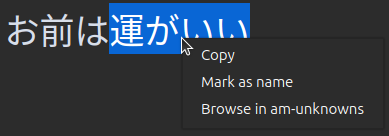
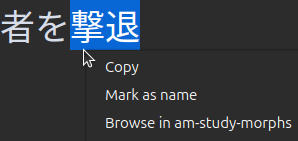
polished guide

Changed region(s): [[0.0, 0.0, 0.6644, 0.5588], [0.3322, 0.7353, 0.9966, 0.9412], [0.3322, 0.5588, 0.755, 0.7353]]

diff --git a/docs/src/user_guide/setup/prioritizing.md b/docs/src/user_guide/setup/prioritizing.md
@@ -5,9 +5,9 @@ behind AnkiMorphs--learn a language in the order that will be the most useful.
 
 AnkiMorphs is a general purpose language learning tool, therefore, it has to be told which morphs occur most often. You
 can do this in two ways, either have AnkiMorphs calculate the morph frequencies found in your
-cards (`Collection frequency`), or you can specify a custom .csv file that contains that information.
+cards (`Collection frequency`), or you can specify a custom `.csv` file that contains that information.
 
-Any .csv file located in the folder [[anki profile folder](../glossary.md#profile-folder)]`/priority-files/` is
+Any `.csv` file located in the folder [[anki profile folder](../glossary.md#profile-folder)]`/priority-files/` is
 available for selection in [note filters: morph priority](../setup/settings/note-filter.md#morph-priority).
 
 But before we outline the custom priority files, we have to discuss morph lemmas and inflections.
@@ -20,18 +20,19 @@ There are scenarios where you might not want to give each individual [inflection
 - Korean has an extreme number of inflections, leading to an explosion of priorities, which creates disproportionate penalties.
 - You might feel that you have a good enough grasp of the grammar of inflections, making it unnecessary to prioritize one over another.
 
-If you **_never_** want to give separate priorities to inflections then you should choose a [lemma only priority file](#custom-lemma-priority-files). If
+If you _never_ want to give separate priorities to inflections then you should choose a [lemma only priority file](#custom-lemma-priority-files). If
 you do care about inflection priorities, or if you might want to switch to lemma priorities on the fly, then choose an [inflection priority file](#custom-inflection-priority-files).
 
 
 ## Custom Priority Files
 
 You can use the [Priority File Generator](../usage/generators.md#priority-file-generator) or the
-[Study Plan Generator](../usage/generators.md#study-plan-generator) to create your own custom priority file. 
+[Study Plan Generator](../usage/generators.md#study-plan-generator) to create your own custom priority file, or you can download some pre-made ones at the bottom
+of this page.
 
 > **Note**:
 > - The `Occurrences` column is optional
-> - Any lines after 1 million will be ignored
+> - Any lines after 1 million will be ignored by AnkiMorphs
 
 
 ### Custom Lemma Priority Files
@@ -87,7 +88,7 @@ Unless otherwise stated, these are `inflection` priority files, generated using 
 
 > * <a download href="../../priority_files/catalan/wortschatz/ca-news-priority.csv">ca-news-priority.csv</a>
 >   - Source: `cat_news_2022_300K-sentences.txt` found on [wortschatz - catalan corpora](https://wortschatz.uni-leipzig.de/en/download/Catalan)
->   - Morphemizer: `AnkiMorphs: Chinese`
+>   - Morphemizer: `spaCy: ca-core-news-sm`
 
 </details>
 
@@ -97,7 +98,7 @@ Unless otherwise stated, these are `inflection` priority files, generated using 
 > **Note**: this is a lemma only priority file.
 > * <a download href="../../priority_files/chinese/wortschatz/zh-news-lemma-priority.csv">zh-news-lemma-priority.csv</a>
 >   - Source: `zho_news_2020_300K-sentences.txt` found on [wortschatz - chinese corpora](https://wortschatz.uni-leipzig.de/en/download/Chinese#zho-simp_news_2010)
->   - Morphemizer: `spaCy: zh-core-web-sm`
+>   - Morphemizer: `AnkiMorphs: Chinese`
 
 </details>
 

diff --git a/docs/src/user_guide/usage/reviewing-cards.md b/docs/src/user_guide/usage/reviewing-cards.md
@@ -64,15 +64,15 @@ The card will then go to the top of the `new cards`-queue. If you have other due
 
 There are three scenarios where AnkiMorphs will automatically skip a card:
 
-1. **You have selected the "Skip cards with only known morphs"-option in [skip settings](../setup/settings/skip.md)**   
+1. **You have selected the `Skip cards with only known morphs`-option the in the [card-handling settings](../setup/settings/card_handling.md)**:   
    If the next card has one of the ['known' tags](../setup/settings/tags.md), then it will be skipped.
 
-2. **You have selected the "Skip cards that have unknown morphs already seen today"-option
-   in [skip settings](../setup/settings/skip.md)**   
+2. **You have selected the `Skip cards that have unknown morphs already seen today`-option
+   in the [card-handling settings](../setup/settings/card_handling.md)**:   
    Say you have three cards: `card1, card2, card3`, all of which have the same unknown morph. After you have
    answered `card1` then the cards `card2, card3` will be skipped.
 
-3. **You have selected the "ignore names found in names.txt"-option in Preprocess settings**   
+3. **You have selected the `ignore names found in names.txt`-option in [preprocess settings](../setup/settings/preprocess.md)**   
    Let's use the same example of three cards , `card1, card2, card3`. This time they all have the same unknown morph
    `Alexander`. If you use the [Mark as name](../setup/names.md) feature to mark `Alexander` as a name on `card1`,
    then the cards `card2, card3` will be skipped.
@@ -99,16 +99,15 @@ AnkiMorphs adds some additional options to the Anki context menu (right-click):
 * **Mark as Name**:  
   The highlighted text will be added to the [names.txt](../setup/names.md) file, and the card will be skipped.
 
-* **Browse in am-unknowns**:  
+* **Browse in `am-study-morphs`**:  
   This opens up the Anki Browse window with the search term:
   ```
-   "am-unknowns:{highlighted_text}"
+   "am-study-morphs:{highlighted_text}"
   ```
-  This can be useful to find cards you previously studied that had this as an unknown morph.
+  This can be useful for finding cards you previously studied that contained the highlighted text as an unknown morph.
 
-  For example, you might have forgotten the nuances of the word `lucky`, but you recall having studied it before and
-  you wish to refresh your memory. To quickly find the previously studied card(s), you can highlight `lucky`,
-  select this option, and the browse window will open with the search:
+  For example, you might have forgotten the nuances of the word `repulse`, but recall having studied it before, you can
+  then highlight `repulse`, select this option, and the browse window will open with the search term:
   ```
-   "am-unknowns:lucky"
+   "am-study-morphs:repulse"
   ```

diff --git a/docs/src/user_guide/setup/settings/note-filter.md b/docs/src/user_guide/setup/settings/note-filter.md
@@ -2,7 +2,7 @@
 
 ![settings-note-filter.png](../../../img/settings-note-filter.png)
 
-AnkiMorphs only analyzes and sorts cards that match at least one `note filter`; if you don't specify any note filters,
+AnkiMorphs only analyzes and sorts cards that match at least one note filter; if you don't specify any note filters,
 then AnkiMorphs won't do anything, so this is a necessary step. This can seem overly complicated and overwhelming, but
 hopefully things will make sense after reading to the end of this page. This is really the heart of the add-on, and it
 has some powerful options (notably [tags](note-filter.md#tags)), so having a good understanding of note filters work
@@ -101,16 +101,16 @@ linguistic analysis, meaning they won't provide accurate [lemmas](../../glossary
 use them if no other morphemizers are available for your particular language.
 
 ### Simple Space Splitter
-As the name suggests, this morphemizer splits words based on whitespace.
+As the name suggests, this morphemizer just splits words based on whitespace.
 
 ### Simple Space Splitter + Punctuation
-This extends the [Simple Space Splitter](#simple-space-splitter) morphemizer to preserve words containing hyphens
-(-) and apostrophes ('), so words like these are handled correctly:
-- "mother-in-law"
-- "quelqu'un"
+This morphemizer extends the [Simple Space Splitter](#simple-space-splitter) to preserve words containing hyphens (-)
+and apostrophes ('), ensuring that words like these are not split apart:
+- `mother-in-law`
+- `quelqu'un`
 
-> **Note**: This morphemizer will split words incorrectly in some languages, such as Arabic. If you experience this
-> issue, try using the Simple Space Splitter instead.
+> **Note**: This morphemizer may not work correctly for some languages, such as Arabic. If you encounter this issue,
+> try using the Simple Space Splitter instead.
 
 ## Morph Priority
 
@@ -119,7 +119,7 @@ the [priority](../prioritizing.md) you give the morphs. You can either set the p
 a [custom priority file](../prioritizing.md#custom-priority-files) that specifies the priorities of the morphs.
 
 AnkiMorphs automatically finds .csv files placed
-in [[anki profile folder](../../glossary.md#profile-folder)]`/frequency-files/`.
+in [[anki profile folder](../../glossary.md#profile-folder)]`/priority-files/`.
 
 > **Note:** using `Collection frequency` is not recommended because it can be volatile; if you make any changes to your
 > cards (delete, suspend, move, etc.), then it can cause a cascade of sorting changes.

diff --git a/docs/src/user_guide/setup/settings/tags.md b/docs/src/user_guide/setup/settings/tags.md
@@ -2,7 +2,7 @@
 
 ![tags-tab.png](../../../img/tags-tab.png)
 
-As AnkiMorphs handles cards, it also automatically adds/removes various tags to those cards. You can customize the names
+As AnkiMorphs processes cards, it automatically adds and removes various tags. You can customize the names
 of the different tags if you want, or you can leave them as they are and move on.
 
 > **Note:** Avoid reusing tags from other sources. Mixing different tags can quickly become complicated and confusing. 
@@ -16,12 +16,12 @@ of the different tags if you want, or you can leave them as they are and move on
   Cards that have one or more morphs in a `learning` state will be given this tag
 * **Learn card now**:  
   When you use the [Learn Card Now](../../usage/browser.md) feature on a card, it will be given this tag. The purpose of
-  this tag is to make the internal process of the `Learn Card Now` feature simpler. Don't give this tag to cards
-  manually, nothing will happen.
+  this tag is to make the internal process of the `Learn Card Now` feature simpler. Do not manually assign this tag to
+  cards, as it will have no effect.
 * **Set known and skip**:  
-  When you use the [Set known and skip](../../usage/reviewing-cards.md#encountering-morphs-you-already-know) feature on
-  a card, it will be given this tag. Cards with this tag should not be deleted; AnkiMorphs might lose track of which
-  morphs you know if you delete these cards.
+  When you use the [Set Known and Skip](../../usage/reviewing-cards.md#encountering-morphs-you-already-know) feature on
+  a card, it will be given this tag. Do **not** delete cards that have this tag, as AnkiMorphs relies on them to track
+  which morphs you know.
 * **All morphs known**:  
   New cards that only have morphs you already know will be given this tag. Cards with this tag can safely be deleted
   without AnkiMorphs losing track of which morphs you know. This can be useful if you want to trim down your card

diff --git a/docs/src/user_guide/usage/generators.md b/docs/src/user_guide/usage/generators.md
@@ -43,16 +43,16 @@ Take, for example, the following folders and their files:
 
 ```
 english_texts/
-    - books/
-        - The Wise Man's Fear/
-            - The Wise Man's Fear.epub
-            - The Wise Man's Fear.txt
-    - subs/
-        - Game-of-Thrones/
-            - season-1/
-                - episode_1.srt
-        - Lord_of_the_Rings/
-            - The_Fellowship_of_the_Ring.vtt
+├── books/
+│   └── The Wise Man's Fear/
+│       ├── The Wise Man's Fear.epub
+│       └── The Wise Man's Fear.txt
+└── subs/
+    ├── Game-of-Thrones/
+    │   └── season-1/
+    │       └── episode_1.srt
+    └── Lord_of_the_Rings/
+        └── The_Fellowship_of_the_Ring.vtt
 
 ```
 
@@ -131,8 +131,7 @@ different outputs, one with pure numerical values, and one with percentages.
 ![readability-report-generator-numerical.png](../../img/readability-report-generator-numerical.png)
 ![readability-report-generator-percentages.png](../../img/readability-report-generator-percentages.png)
 
-You can click on the column headers to sort the rows based on those values. In the pictures above the rows
-are sorted based on the value in the `File` column.
+You can click on the column headers to sort the rows based on those values.
 
 <br>
 <br>
@@ -165,7 +164,7 @@ The study plan generator basically does this:
 The resulting file can be used in the [note filter: morph priority settings](../setup/settings/note-filter.md#morph-priority)
 like any other priority file.
 
-> **Note**: that only the data from the `Morph-lemma`, and `Morph-inflection` columns are read 
+> **Note**: that only the data from the `Morph-Lemma`, and `Morph-Lnflection` columns are read 
 by AnkiMorphs, so you can delete or modify the other columns if you want.
 
 

diff --git a/docs/src/user_guide/usage/progression.md b/docs/src/user_guide/usage/progression.md
@@ -17,8 +17,8 @@ your **learning progress** and the **quality of your card collection** with resp
 
 Since progression is measured with respect to [morph priorities](../setup/prioritizing.md), we must first decide how 
 morph priorities should be determined. In an identical manner to [note filters](../setup/settings/note-filter.md#morph-priority), you can either use the morph 
-frequencies of your card collection (`Collection frequency`) or you can designate a custom .csv file that contains this 
-information. Any .csv file located in the folder [anki profile folder](../glossary#profile-folder)`/priority-files/` is available for selection. 
+frequencies of your card collection (`Collection frequency`) or you can designate a custom `.csv` file that contains this 
+information. Any `.csv` file located in the folder [anki profile folder](../glossary#profile-folder)`/priority-files/` is available for selection. 
 
 ### Options
 
@@ -44,7 +44,7 @@ Finally, the user can specify whether morphs should be evaluated according to [l
 ![progression-morph-evaluation-mode.png](../../img/progression-morph-evaluation-mode.png)
 
 This can be freely changed regardless of the mode specified in the [general settings](../setup/settings/general.md). However, if using
-morph priorities from a custom .csv file, one must be sure as always that the .csv file is compatible with the morph evaluation mode, e.g. 
+morph priorities from a custom `.csv` file, one must be sure as always that the file is compatible with the morph evaluation mode, e.g. 
 if you are using a [lemma-only priority file](../setup/prioritizing.md#custom-lemma-priority-files), then you can only evaluate by lemma.
 
 ## Results

diff --git a/docs/src/user_guide/setup/settings/preprocess.md b/docs/src/user_guide/setup/settings/preprocess.md
@@ -12,7 +12,7 @@ Here are some options that can preprocess the text on your cards, potentially re
 * **Ignore content in slim round brackets（ ）**:  
   Ignore content such as character names and readings in Japanese scripts
 * **Ignore content in suspended cards**:  
-  Ignore text found in suspended cards **_EXCEPT_** for suspended cards that have the [Set known and skip tag](tags.md).
+  Ignore text found on suspended cards **_except_** for suspended cards that have the [Set known and skip tag](tags.md).
   This exception makes it so that you can safely suspend cards with known morphs without AnkiMorphs losing track of
   which morphs you know.
   > **Note:** if you use [collection frequency](note-filter.md#morph-priority) in any note filters, then you should not
@@ -20,7 +20,7 @@ Here are some options that can preprocess the text on your cards, potentially re
 * **Ignore names found by the morphemizer**:  
   Some morphemizers are able to recognize some names.
   > **Note:** This can have mixed results; some morphemizers produce a non-trivial amount of false-positives, the German
-  spaCy models in particular. If you find that there are missing morphs, then this is the likely cause. In that case you
+  spaCy models in particular. If you find that there are missing morphs, then this is likely the cause. In that case you
   are probably better off only using the [names.txt](../names.md) feature.
 * **Ignore names found in names.txt**:  
   Ignore names that are placed in [names.txt](../names.md)

diff --git a/docs/src/user_guide/setup/settings/card_handling.md b/docs/src/user_guide/setup/settings/card_handling.md
@@ -4,7 +4,7 @@
 
 
 
-**Encountering cards during study session**:
+**Encountering cards during study sessions**:
 
 This is where you can make AnkiMorphs really efficient. AnkiMorphs sorts
 your cards based on how well you know its content; the more you know, the sooner the card will be shown. The downside is
@@ -17,8 +17,7 @@ To overcome this problem and speed up the learning process, we can use the optio
   If AnkiMorph has determined that you know all the morphs on the card, then it will be buried and skipped.
 * **Skip cards that have unknown morphs already seen today**:  
   If you have already studied a card earlier today with the same unknown morph, then any subsequent cards with that
-  unknown morph will be buried and skipped. This option is beneficial because it means you don't have
-  to [Recalc](../../usage/recalc.md) as often.
+  unknown morph will be buried and skipped, which reduces the need to [Recalc](../../usage/recalc.md).
 * **Show "skipped x cards" notification**:  
   After cards are skipped, a notification in the lower left corner displays how many cards were skipped and for what
   reason. If you don't want to see this notification, you can uncheck this option.

diff --git a/docs/src/user_guide/setup/setting-known-morphs.md b/docs/src/user_guide/setup/setting-known-morphs.md
@@ -1,12 +1,12 @@
 # Setting Known Morphs
 
 AnkiMorphs determines which morphs you know by analyzing the cards you specify. However, if you delete any of those
-cards then it can lead to loss of information. To address this issue, you can store known morphs in .csv files in the
+cards then it can lead to loss of information. To address this issue, you can store known morphs in `.csv` files in the
 [[anki profile](../glossary.md#profile-folder)]`/known-morphs` folder.
 
 ![known-morphs-folder.png](../../img/known-morphs-folder.png)
 
-Any .csv file that has the [priority file format](prioritizing.md#custom-priority-files) (like those produces by the
+Any `.csv` file that has the [priority file format](prioritizing.md#custom-priority-files) (like those produces by the
 [Known Morphs Exporter](../usage/known-morphs-exporter.md)), and is placed within this folder, can be read during [Recalc](../usage/recalc.md) and saved to the database.
 
 You can activate this feature by selecting `Read files in 'known-morphs' folder and register morphs as known`

diff --git a/docs/src/user_guide/setup/tips-and-tricks.md b/docs/src/user_guide/setup/tips-and-tricks.md
@@ -2,10 +2,9 @@
 
 ### Learning specific media
 
-If you want to learn a specific piece of media, e.g. a book, a movie, etc., then using a more specialized/targeted
-[frequency.csv](prioritizing.md#frequencycsv) can help you reach your goal faster than if you were to use a more general
-frequency.csv. You should only really do this after you have already learned **at least** the most frequent 2k morphs
-from a general frequency.csv--If you start to specialize too early you can fall into the trap of 'over-fitting'
+If you want to learn a specific piece of media—like a book or a movie—a targeted [priority file](prioritizing.md) can speed things
+up compared to a general one. However, ou should only really do this after you have already learned **at least** the
+most frequent 2k morphs. If you start to specialize too early you can fall into the trap of 'over-fitting'
 your vocabulary and understanding of the language.
 
 ### Reverting AnkiMorphs changes

diff --git a/docs/src/user_guide/glossary.md b/docs/src/user_guide/glossary.md
@@ -25,8 +25,8 @@ unit of speech. A morpheme can be a whole word, like "book" or "run," or a part 
 ### Lemma
 
 A lemma is the base form of a word. It's the version you would typically find in a dictionary. For example:
-- The lemma for "running," "ran," and "runs" is "run."
-- The lemma for "better" and "best" is "good."
+- The lemma for "running," "ran," and "runs" is "**run**."
+- The lemma for "better" and "best" is "**good**."
 
 ### Inflection
 
@@ -91,7 +91,7 @@ You can tell if a card is in the 'new' state when its `due` value looks like thi
 
 After reviewing a card, you can change its state back to 'new' by using the reset option.
 
-###Reviewed cards
+### Reviewed cards
 
 Once a card has been reviewed once, i.e. answered with either 'Again', 'Hard', 'Good', or 'Easy', it will move
 from the 'new' state into the 'review' state.

diff --git a/docs/src/user_guide/setup/names.md b/docs/src/user_guide/setup/names.md
@@ -1,5 +1,8 @@
 # Names
 
+> **Note**: AnkiMorphs loads the entire list of names into memory and compares against it each time you review a card.
+> To avoid slowdowns, keep the list of names as small as possible.
+
 You can have AnkiMorphs automatically filter out specified names found on your cards. This feature is designed so users
 won't have to learn the names of places or individuals, as these words lack
 inherent meaning that can be acquired.
@@ -15,3 +18,4 @@ You can either update this file manually, or during a review you can also add na
 right-clicking it, and choosing `Mark as name` from the dropdown menu.
 
 ![mark-as-name.png](../../img/mark-as-name.png)
+
